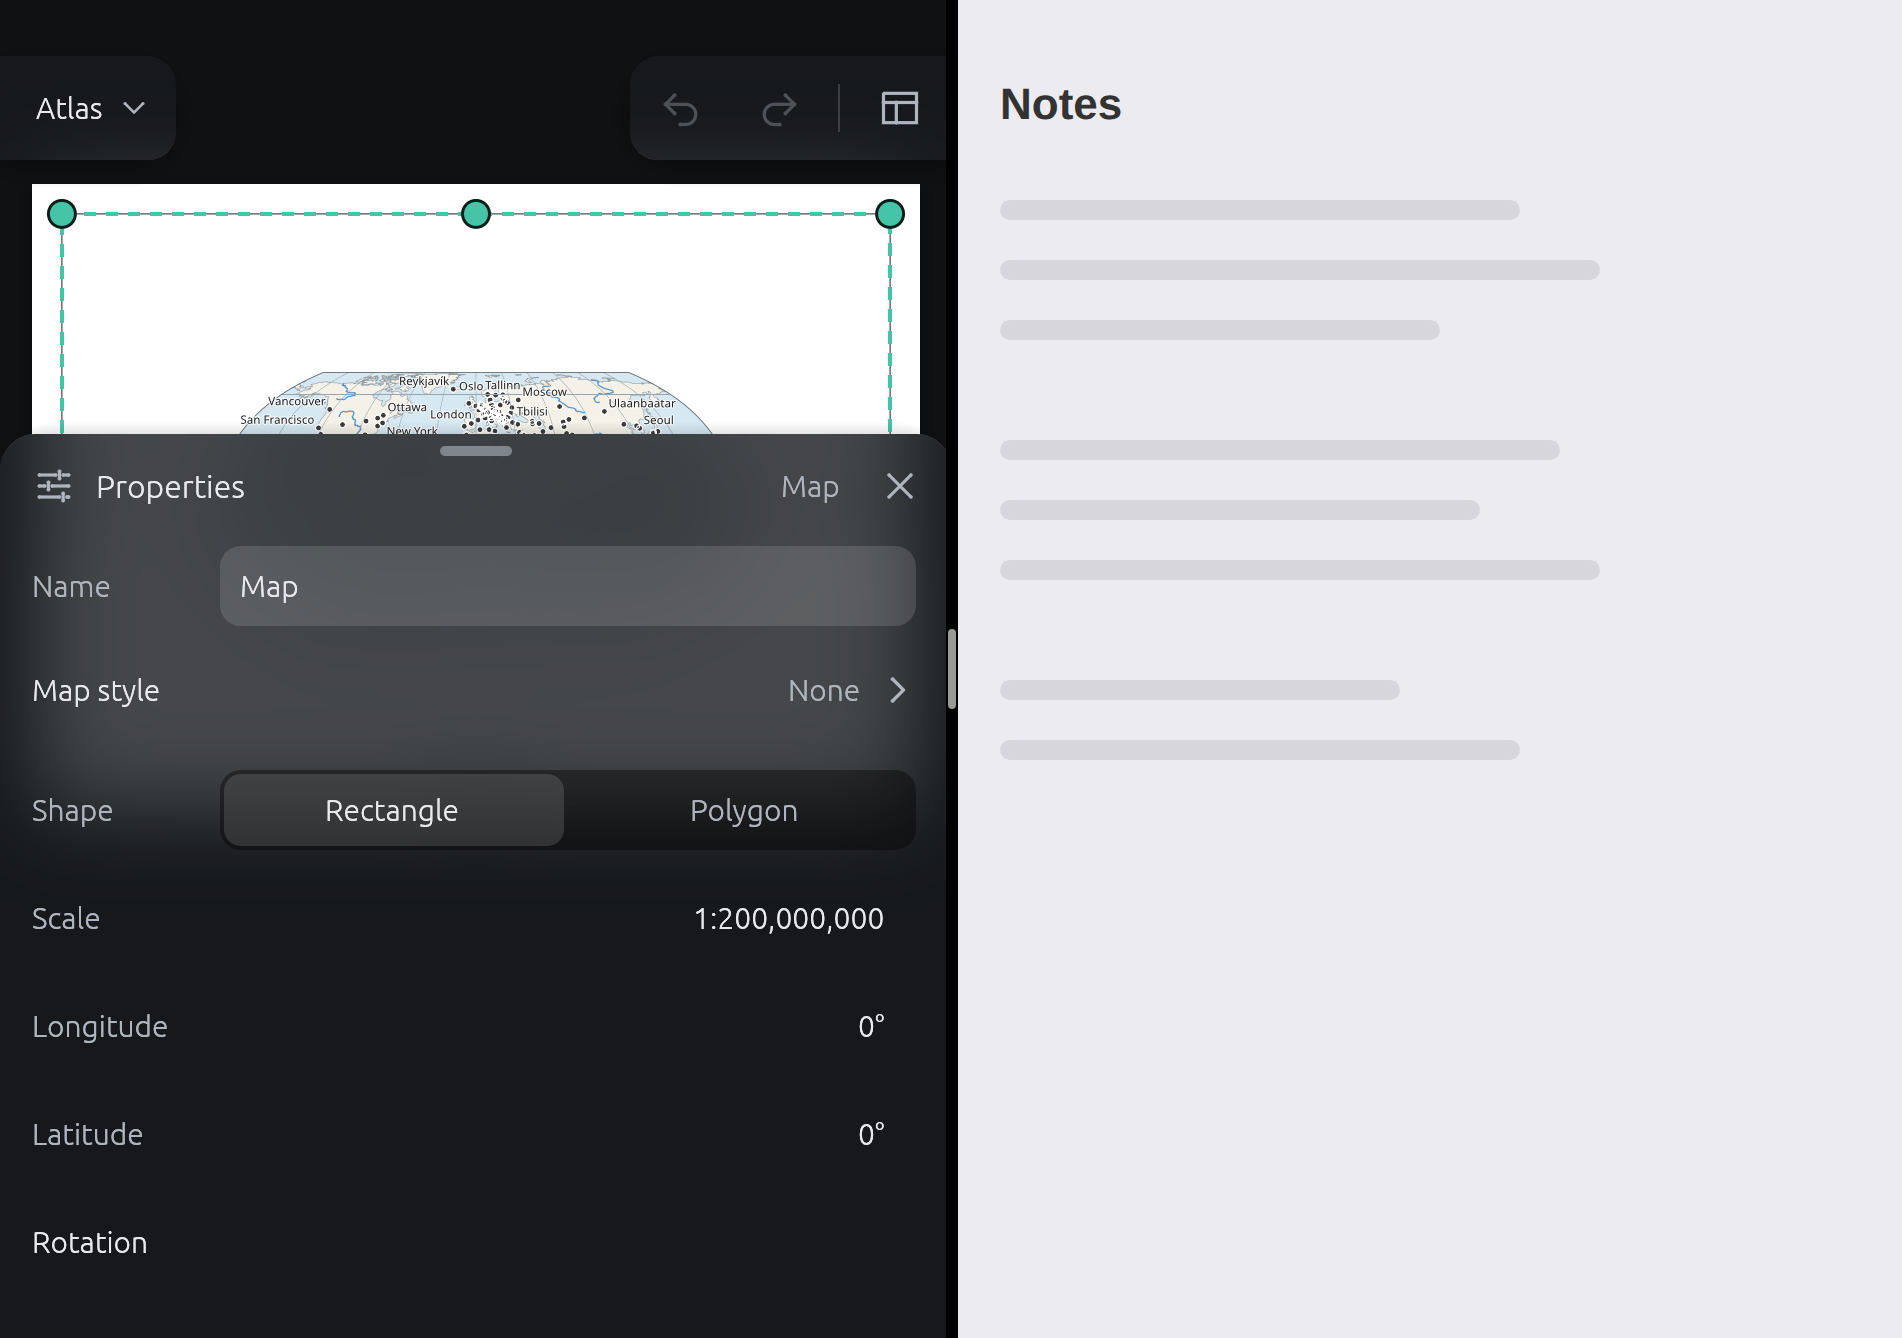
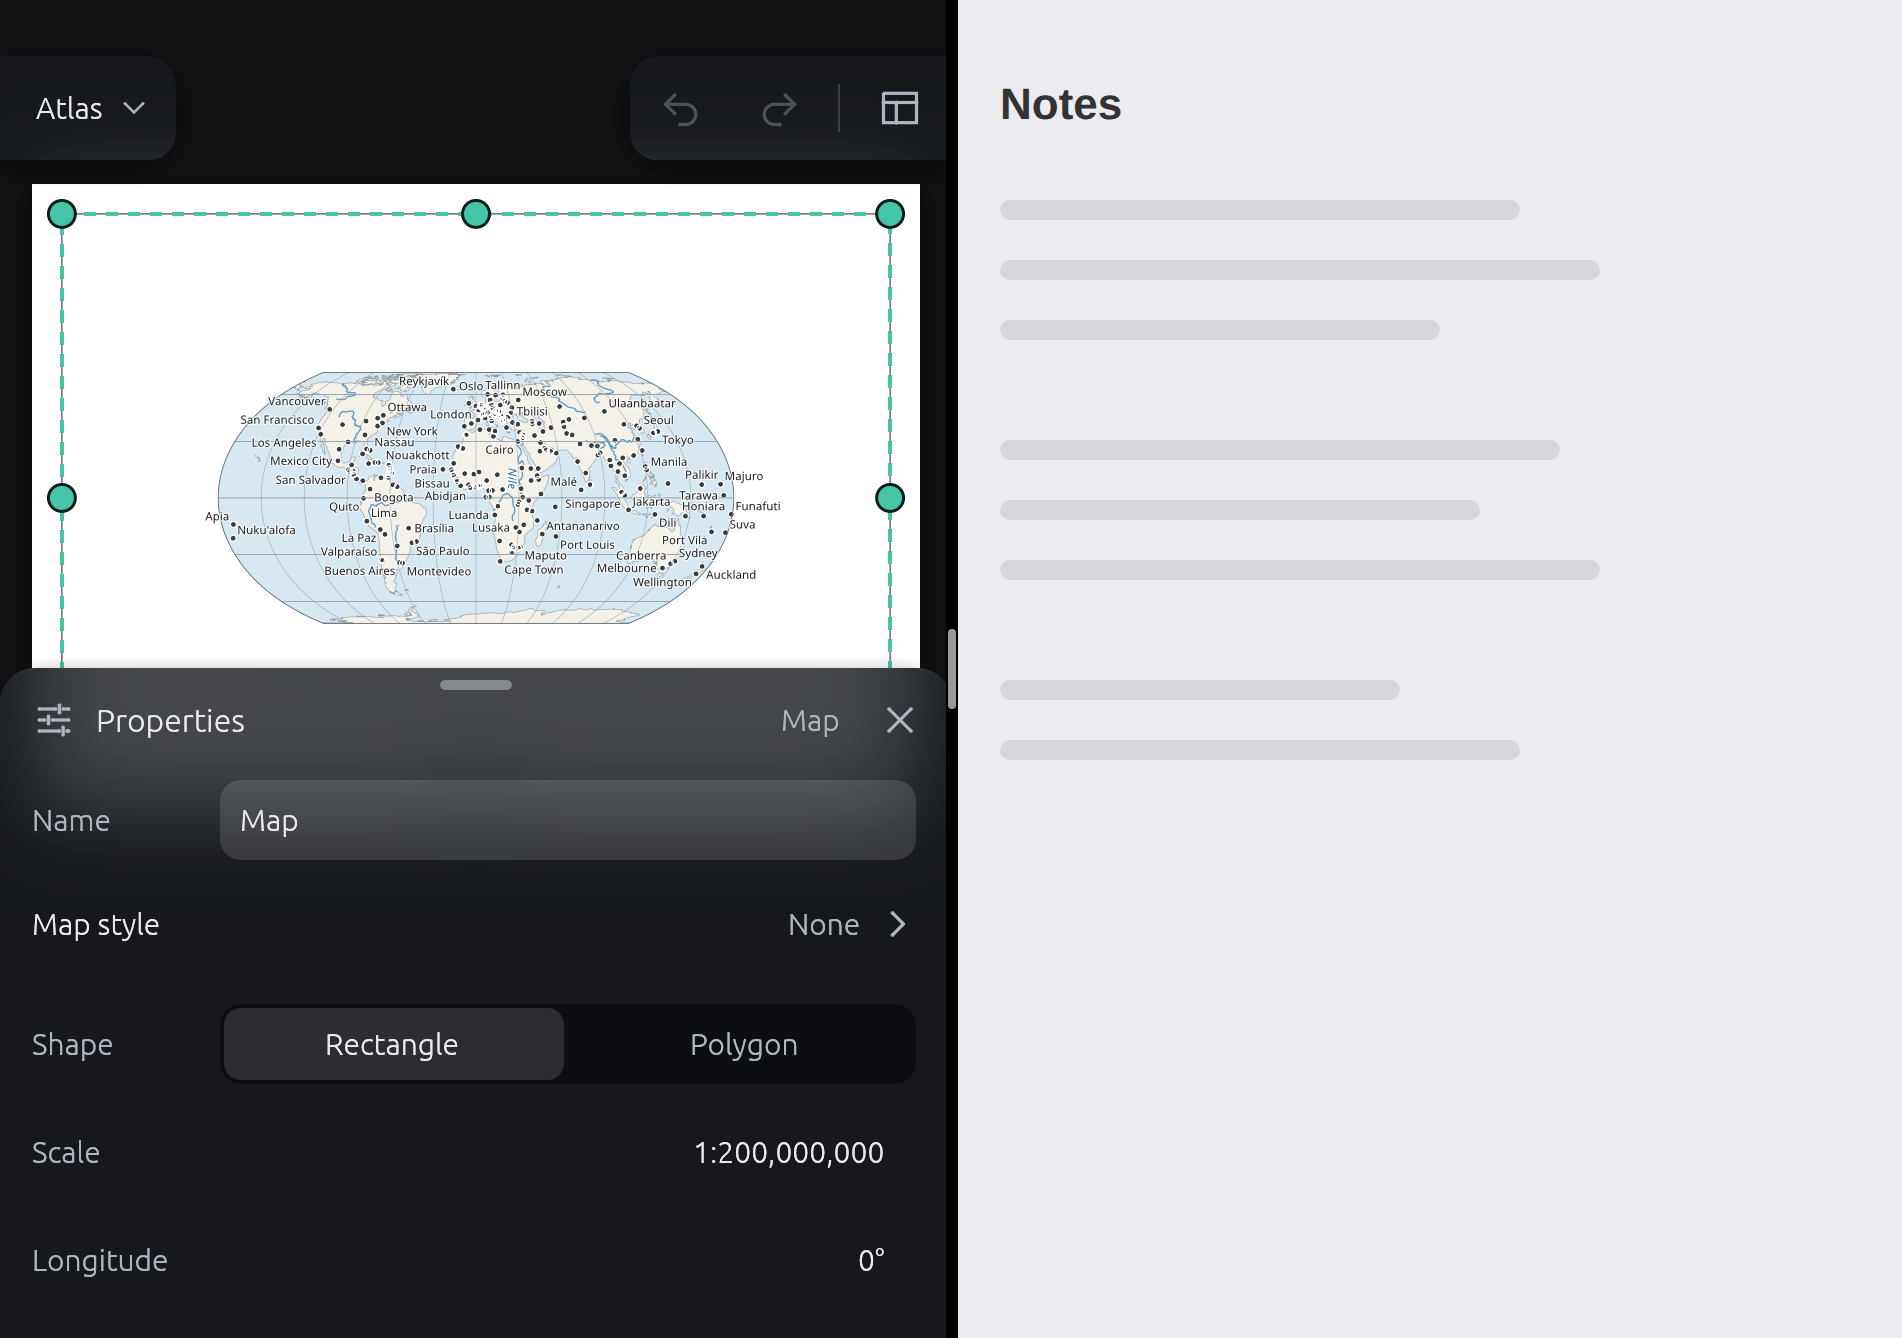
Open the sheet at half the height of iPhone Duo, and keep the top row off the inner camera

diff --git a/docs/mockups/duo-layout/layout.html b/docs/mockups/duo-layout/layout.html
@@ -22,11 +22,11 @@ body { background: rgb(15,17,19); overflow: hidden; position: relative; font-fam
 // Each screen is a picture of vale-app at the size of its pose, from assets/, with the
 // changes of iPhone Duo on top. The hinge is vertical in landscape and horizontal in portrait.
 const POSES = {
-  "outer-portrait":  { w: 466, h: 678, camera: "right" },
+  "outer-portrait":  { w: 466, h: 678, camera: "right", sheet: 791 },
   "outer-landscape": { w: 678, h: 466, camera: "left" },
   "inner-portrait":  { w: 669, h: 951, hinge: "h" },
   "inner-landscape": { w: 951, h: 669, hinge: "v" },
-  "split":           { w: 951, h: 669, split: 476 },
+  "split":           { w: 951, h: 669, split: 476, sheet: 786 },
   "tabletop":        { w: 669, h: 951, hinge: "h", folded: true, pic: "inner-portrait" },
   "book":            { w: 951, h: 669, hinge: "v", folded: true, pic: "inner-landscape" },
 };
@@ -41,10 +41,13 @@ document.body.style.cssText = `width:${W}px;height:${H}px`;
 const box = (x, y, w, h) => `left:${x}px;top:${y}px;width:${w}px;height:${h}px;`;
 const src = `assets/${ws}-${pose.pic ?? name.slice(ws.length + 1)}.png`;
 const pw = pose.split ?? W;
+// The sheet of the iPhone layout opens at 452 points. On iPhone Duo, it opens at half the height of the screen,
+// so the picture of a selected frame comes from a taller window, and the screen shows its top part.
+const ph = ws === "atlas" && pose.sheet ? pose.sheet : H;
 // A part of a picture, from (sx, sy) to (x, y), at a scale.
 const crop = (file, sx, sy, w, h, x, y, k = 1, extra = "") =>
-  `<div class="pic" style="${box(x, y, w * k, h * k)}background-image:url(${file});background-size:${pw * k}px ${H * k}px;background-position:${-sx * k}px ${-sy * k}px;${extra}"></div>`;
-let out = `<div class="pic" style="${box(0, 0, pw, H)}background-image:url(${src});background-size:100% 100%"></div>`;
+  `<div class="pic" style="${box(x, y, w * k, h * k)}background-image:url(${file});background-size:${pw * k}px ${ph * k}px;background-position:${-sx * k}px ${-sy * k}px;${extra}"></div>`;
+let out = `<div class="pic" style="${box(0, 0, pw, H)}background-image:url(${src});background-size:${pw}px ${ph}px"></div>`;
 
 // The card of the top row at the corner of the camera moves along the row, out of the region of the camera.
 if (pose.camera) {

diff --git a/docs/mockups/duo-layout/gallery.html b/docs/mockups/duo-layout/gallery.html
@@ -25,11 +25,11 @@
 <div id="screens"></div>
 <script>
 const poses = [
-  ["outer-portrait", 466, 678, "Outer screen, portrait", "The screen is below 600 points wide, so it has the iPhone layout. The card of the actions moves to the left of the camera."],
+  ["outer-portrait", 466, 678, "Outer screen, portrait", "The screen is below 600 points wide, so it has the iPhone layout. The card of the actions moves to the left of the camera, and the sheet opens at half the height of the screen."],
   ["outer-landscape", 678, 466, "Outer screen, landscape", "The medium layout of the iPad. The card of the world menu moves to the right of the camera."],
   ["inner-portrait", 669, 951, "Inner screen, portrait", "The medium layout of the iPad. The hinge is horizontal."],
   ["inner-landscape", 951, 669, "Inner screen, landscape", "The medium layout of the iPad. The hinge is vertical, and the dock is right of it."],
-  ["split", 951, 669, "Split View", "Vale has one half of the inner screen, which is below 600 points wide, so it has the iPhone layout."],
+  ["split", 951, 669, "Split View", "Vale has one half of the inner screen, which is below 600 points wide, so it has the iPhone layout. The sheet opens at half the height of the screen."],
   ["tabletop", 669, 951, "Partially folded, portrait", "The tool column and the dock have a gap at the folding region. A page fits in the upper part."],
   ["book", 951, 669, "Partially folded, landscape", "The dock already fits right of the folding region. A page fits in the left part."],
 ];

diff --git a/docs/DESIGN.md b/docs/DESIGN.md
@@ -715,9 +715,9 @@ A visible status bar adds to the safe area. On the outer screen and on the inner
 
 The device opens like a book, so the outer screen in portrait is one half of the inner screen in landscape. The hinge is vertical on the inner screen in landscape and horizontal in portrait. When the device is partially folded, the system reserves a folding region along the hinge, and the region divides the inner screen into two parts.
 
-On iPhone Duo, Vale keeps the layout of its width in each pose, with the top row at the top. The outer screen in portrait is below 600 points wide, so it has the iPhone layout. The outer screen in landscape and the inner screen in both orientations have the medium layout of the iPad, with the tool column at the left edge and the dock at the right edge. In Split View, each app has one half of the inner screen in landscape, so Vale is below 600 points wide and has the iPhone layout.
+On iPhone Duo, Vale keeps the layout of its width in each pose, with the top row at the top. The outer screen in portrait is below 600 points wide, so it has the iPhone layout. The outer screen in landscape and the inner screen in both orientations have the medium layout of the iPad, with the tool column at the left edge and the dock at the right edge. In Split View, each app has one half of the inner screen in landscape, so Vale is below 600 points wide and has the iPhone layout. On iPhone Duo, the sheet of the iPhone layout opens at half the height of the screen, so the canvas has the upper half.
 
-The outer camera is in a top corner of the outer screen, and the system reserves a region around it. The app gets the region from the system. On the outer screen in portrait, the camera is at the top right, so the card of the actions ends at the left of the region. On the outer screen in landscape, the camera is at the top left, so the card of the world menu starts at the right of the region. No other part moves.
+The outer camera is in a top corner of the outer screen, and the system reserves a region around it. The app gets the region from the system. On the outer screen in portrait, the camera is at the top right, so the card of the actions ends at the left of the region. On the outer screen in landscape, the camera is at the top left, so the card of the world menu starts at the right of the region. The inner camera is a reserved region only while it is on. While it is on, the card of the top row at its corner moves along the row in the same way. No other part moves.
 
 The parts of the layout keep out of the folding region, so a fold changes the layout only a little:
 

diff --git a/docs/mockups/duo-layout/README.md b/docs/mockups/duo-layout/README.md
@@ -20,7 +20,7 @@ The part of the URL after `#` chooses the screen, for example `layout.html#globe
 
 ## Render the screens
 
-The pictures in `assets/` come from `vale-app`, at a pixel ratio of 2, with the safe area `0,0,34,0`. The globe screens have the Layers panel, and the globe screens of the iPhone layout have no panel. The Atlas screens have map frame 1 selected. The files with the suffix `-behind` have the dock collapsed, and they show the canvas in the gap at the folding region.
+The pictures in `assets/` come from `vale-app`, at a pixel ratio of 2, with the safe area `0,0,34,0`. The globe screens have the Layers panel, and the globe screens of the iPhone layout have no panel. The Atlas screens have map frame 1 selected. The Atlas pictures of `outer-portrait` and `split` come from a window 113 points taller, 466 × 791 and 476 × 786, so the sheet of 452 points opens at half the height of the screen. The screen shows the top part of the picture. The files with the suffix `-behind` have the dock collapsed, and they show the canvas in the gap at the folding region.
 
 This command renders the screens with Chromium. Run it from the root of the repository. The variable `CHROME` gives the Chromium command, and the default is `chromium`.
 
